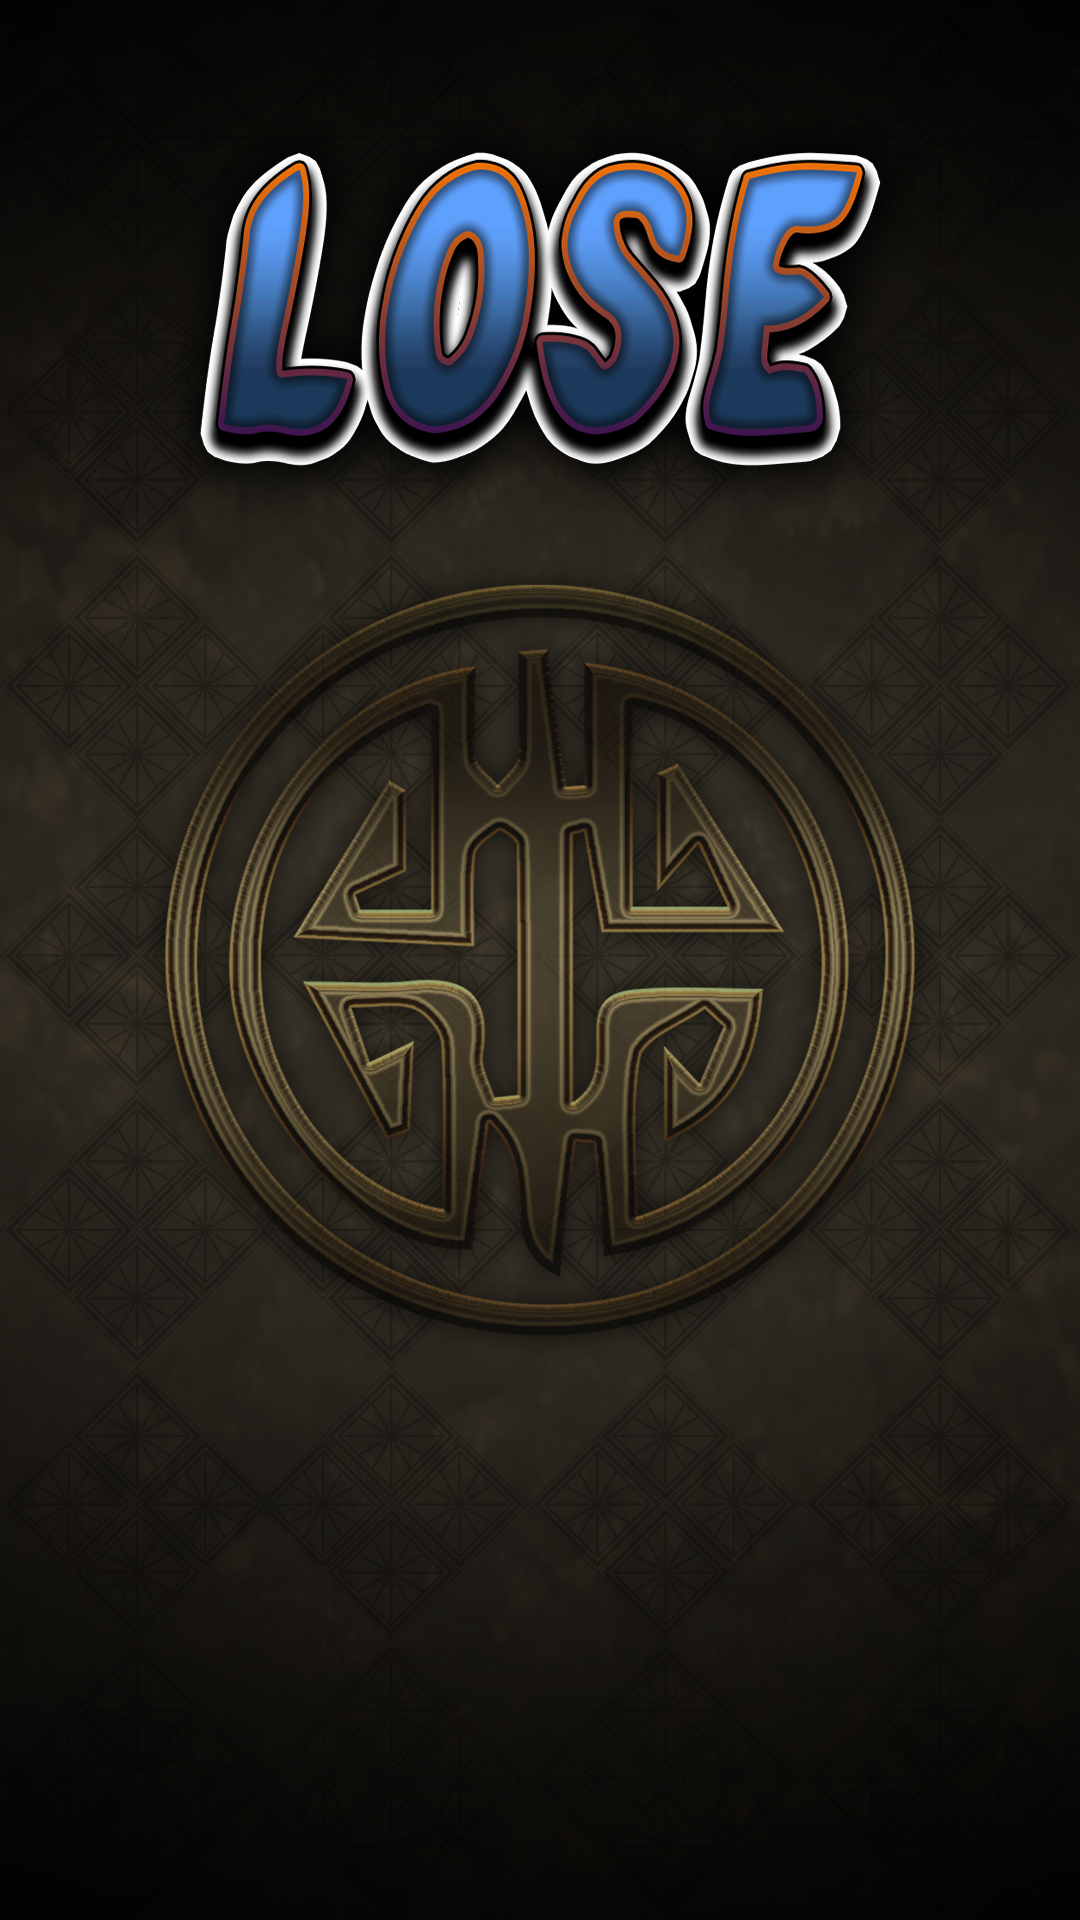
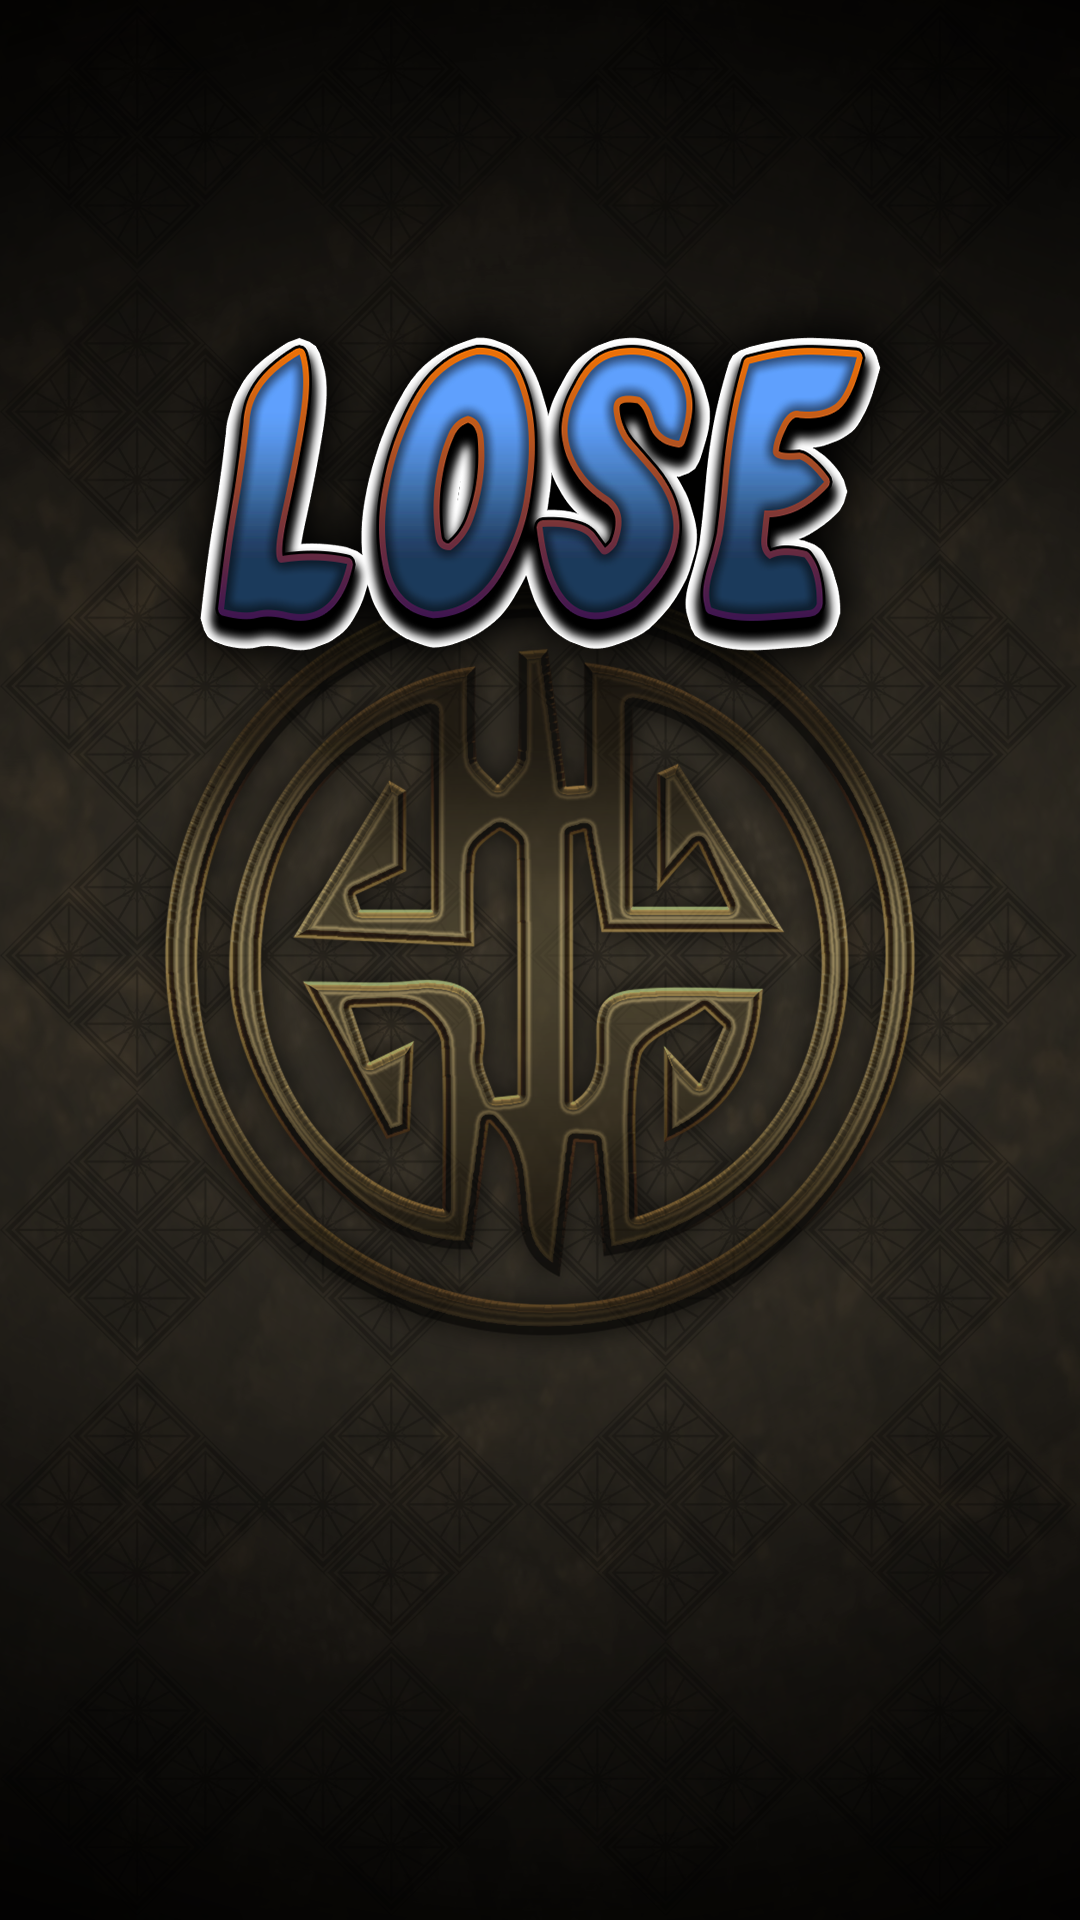
画像更新、ボタンダウン追加

Changed region(s): [[0.1833, 0.0625, 0.825, 0.3438]]

diff --git a/public/css/battleResult.css b/public/css/battleResult.css
@@ -4,7 +4,7 @@
 body{}
 
 /* 背景画像 */
-.battleResult_background {
+.battleresult_bg {
 	/* 画像をタイル状に繰り返し表示しない */
 	background-repeat: no-repeat;
    
@@ -14,5 +14,28 @@ body{}
 	/* 表示するコンテナの大きさに基づいて、背景画像を調整 */
 	background-size: cover;
     
+    width: 100%;
+}
+
+/* バトルリザルトのログ部分 */
+.battleresult_log {
+    position: absolute;
+    top: 35%;
+    left: 5%;
+    width: 90%;
+}
+/* 背景画像 */
+.battleresult_log_bg {
+    width: 100%;
+}
+
+/* 全体に対する、バックホームボタンの領域 */
+.battleresult_backhome_linkregion{
+    position: absolute;
+    left: 35%;
+    bottom: 10%;
+    width: 30%;
+}
+.battleresult_backhome_icon{
     width: 100%;
 }

diff --git a/public/css/battle.css b/public/css/battle.css
@@ -4,7 +4,7 @@
 body{}
 
 /* 各級の背景画像 */
-.battle_background {
+.battle_bg {
 	/* 画像をタイル状に繰り返し表示しない */
 	background-repeat: no-repeat;
    
@@ -38,7 +38,7 @@ body{}
 .battle_enemy_status_icon {
     position: absolute;
     top: -20%;
-    left: 1%;
+    left: 0.5%;
     width: 20%;
 }
 /* 敵キャラのHP */
@@ -74,7 +74,7 @@ body{}
 /* 敵キャラの手のアイコン */
 .battle_enemy_hand_icon{
     position: absolute;
-    left: 10%;
+    left: 9%;
     top: 10%;
     width: 80%; 
 }
@@ -149,7 +149,7 @@ body{}
 .battle_player_status_icon {
     position: absolute;
     top: -18%;
-    right: 2%;
+    right: 2.5%;
     width: 20%;
 }
 /* 自キャラのHP */

diff --git a/resources/views/battleResult.blade.php b/resources/views/battleResult.blade.php
@@ -2,8 +2,11 @@
 		@include('common/header')
 		@include('common/css', ['file' => 'battleResult'])
 		
+		<div class="battleresult_log">
+			<img src="{{IMG_URL}}battle/battleResultlog_Bg.png" class="battleresult_log_bg">				
+		</div>
 		@if ($viewData['Prize'] > 0)
-			<img src="{{IMG_URL}}battle/battleResult_Bg_Win.png" class="battleResult_background">
+			<img src="{{IMG_URL}}battle/battleResult_Bg_Win.png" class="battleresult_bg">
 			<div>
 				勝利！
 			</div>
@@ -14,14 +17,14 @@
 				現在のウィークリーポイント　{{$viewData['RankingData']['weeklyAward']}}
 			</div>
 		@else
-			<img src="{{IMG_URL}}battle/battleResult_Bg_Lose.png" class="battleResult_background">
+			<img src="{{IMG_URL}}battle/battleResult_Bg_Lose.png" class="battleresult_bg">
 			<div>
 				敗北...
 			</div>
 		@endif
 
-		<div>
-			<a href="{{APP_URL}}mypage" >
+		<div class="battleresult_backhome_linkregion">
+			<a href="{{APP_URL}}mypage" class="battleresult_backhome_icon">
 				<img src={{IMG_URL}}battle/backHome.png >
 			</a>
 		</div>

diff --git a/resources/views/battle.blade.php b/resources/views/battle.blade.php
@@ -2,7 +2,7 @@
 		@include('common/battle')
 		@include('common/css', ['file' => 'battle'])
 
-		<img src="{{IMG_URL}}battle/battle_Bg{{$viewData['EnemyData']['difficulty']}}.png" class="battle_background">
+		<img src="{{IMG_URL}}battle/battle_Bg{{$viewData['EnemyData']['difficulty']}}.png" class="battle_bg">
 
 		<table border="0" class="battle_hedder">
 			<tr>
